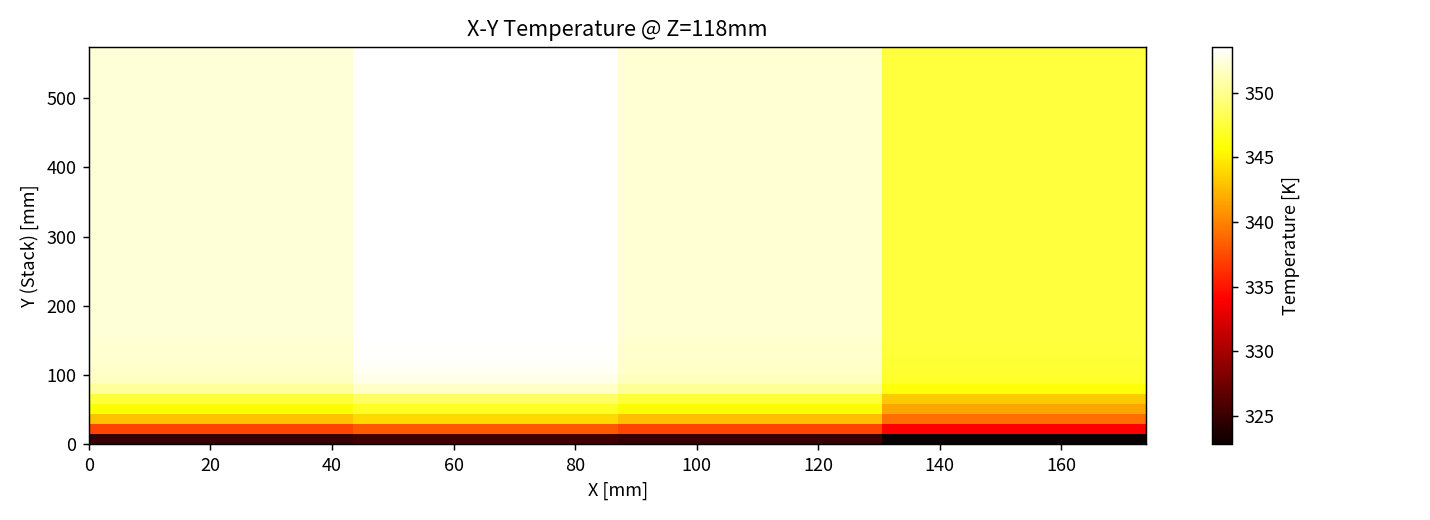
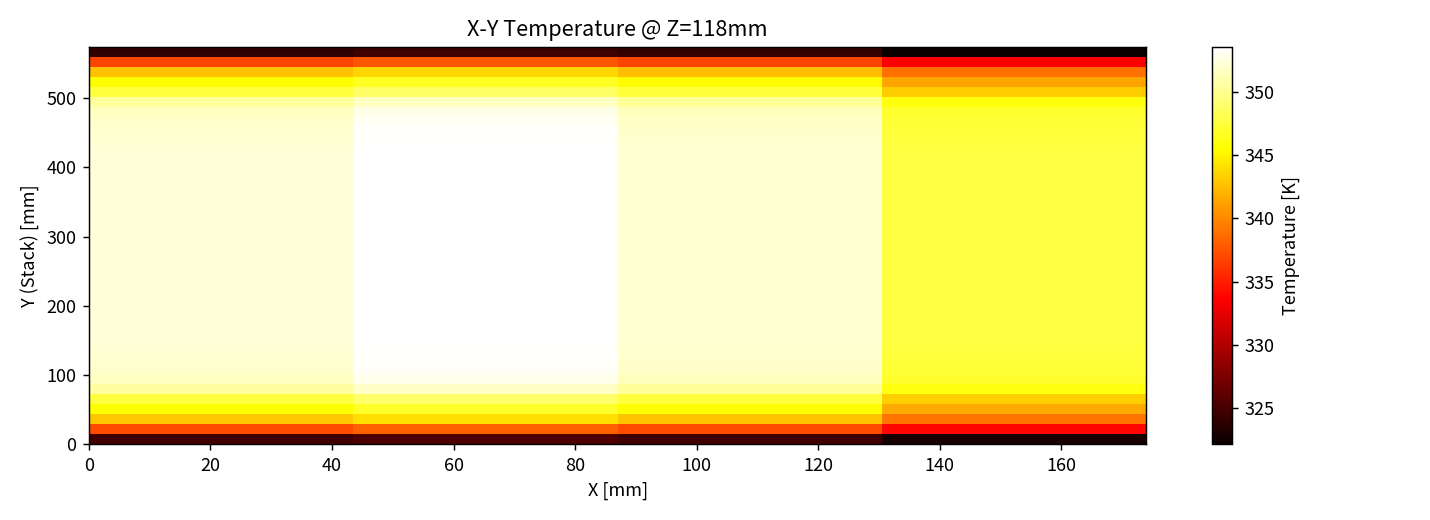
fix: bottom big-face tail is air convection, not adiabatic
- Set h_bottom=50 W/m2K (was 0/adiabatic) in demo_8s_foam_thermal.py

- plot_3d_pack now renders bottom as air-conv layer (light blue) when h_bottom>0

- Update all demo labels, titles and network diagram to 'bottom air convection'

- Regenerate all 8s_foam output figures/CSV with corrected BC

diff --git a/ecm_pack/thermal3d_stack.py b/ecm_pack/thermal3d_stack.py
@@ -533,7 +533,8 @@ class StackThermal3D:
             ):
                 add_face(face, plastic_color, alpha_plastic, "blue", 0.25)
 
-        # ---- adiabatic bottom marker (y = n*Ly, visible slab) ----
+        # ---- bottom boundary marker (y = n*Ly) ----
+        # Air convection -> light-blue translucent slab; adiabatic -> gray hatched slab.
         y_bot = n * Ly
         bot = [
             [0.0, y_bot, 0.0], [Lx, y_bot, 0.0],
@@ -541,24 +542,42 @@ class StackThermal3D:
             [0.0, y_bot, Lz], [Lx, y_bot, Lz],
             [Lx, y_bot + vis_d_adiab, Lz], [0.0, y_bot + vis_d_adiab, Lz],
         ]
-        for face in (
-            [bot[0], bot[1], bot[5], bot[4]],
-            [bot[2], bot[3], bot[7], bot[6]],
-            [bot[0], bot[3], bot[7], bot[4]],
-            [bot[1], bot[2], bot[6], bot[5]],
-            [bot[4], bot[5], bot[6], bot[7]],
-        ):
-            add_face(face, adiabatic_color, alpha_adiabatic, "black", 0.5)
-        # diagonal hatching lines on adiabatic bottom face
-        hatch_lines = []
-        for t in np.linspace(0.05, 0.95, 6):
-            hatch_lines.append([[t * Lx, y_bot + vis_d_adiab, 0.0],
-                                [t * Lx, y_bot + vis_d_adiab, Lz]])
-            hatch_lines.append([[0.0, y_bot + vis_d_adiab, t * Lz],
-                                [Lx, y_bot + vis_d_adiab, t * Lz]])
-        ax.add_collection3d(
-            Line3DCollection(hatch_lines, colors="black", linewidths=0.6,
-                             linestyles="--", alpha=0.6))
+        if self.h_bottom > 0.0:
+            bot_color = "#87ceeb"   # light sky blue = air convection
+            bot_edge = "navy"
+            for face in (
+                [bot[0], bot[1], bot[5], bot[4]],
+                [bot[2], bot[3], bot[7], bot[6]],
+                [bot[0], bot[3], bot[7], bot[4]],
+                [bot[1], bot[2], bot[6], bot[5]],
+                [bot[4], bot[5], bot[6], bot[7]],
+            ):
+                add_face(face, bot_color, 0.40, bot_edge, 0.6)
+            # small convection arrows pointing away from the face
+            for t in np.linspace(0.15, 0.85, 4):
+                ax.plot([t * Lx, t * Lx], [y_bot + vis_d_adiab, y_bot + vis_d_adiab + 0.012],
+                        [t * Lz, t * Lz], color=bot_edge, lw=0.8, alpha=0.8)
+            bot_label = "AIR CONV"
+        else:
+            for face in (
+                [bot[0], bot[1], bot[5], bot[4]],
+                [bot[2], bot[3], bot[7], bot[6]],
+                [bot[0], bot[3], bot[7], bot[4]],
+                [bot[1], bot[2], bot[6], bot[5]],
+                [bot[4], bot[5], bot[6], bot[7]],
+            ):
+                add_face(face, adiabatic_color, alpha_adiabatic, "black", 0.5)
+            # diagonal hatching lines on adiabatic bottom face
+            hatch_lines = []
+            for t in np.linspace(0.05, 0.95, 6):
+                hatch_lines.append([[t * Lx, y_bot + vis_d_adiab, 0.0],
+                                    [t * Lx, y_bot + vis_d_adiab, Lz]])
+                hatch_lines.append([[0.0, y_bot + vis_d_adiab, t * Lz],
+                                    [Lx, y_bot + vis_d_adiab, t * Lz]])
+            ax.add_collection3d(
+                Line3DCollection(hatch_lines, colors="black", linewidths=0.6,
+                                 linestyles="--", alpha=0.6))
+            bot_label = "ADIABATIC"
 
         # ---- 3D leader-line labels (placed in the foreground for the view) ----
         label_kw = dict(color="black", fontsize=9, fontweight="bold",
@@ -580,8 +599,9 @@ class StackThermal3D:
                 "PLASTIC", [Lx + 0.025, -0.030, 0.20],
                 [Lx * 0.5, -vis_d_plastic, Lz * 0.5], plastic_color)
         label_with_line(
-            "ADIABATIC", [0.12, y_bot + 0.038, 0.22],
-            [Lx * 0.5, y_bot + vis_d_adiab, Lz * 0.5], adiabatic_color)
+            bot_label, [0.12, y_bot + 0.038, 0.22],
+            [Lx * 0.5, y_bot + vis_d_adiab, Lz * 0.5],
+            bot_color if self.h_bottom > 0.0 else adiabatic_color)
 
         # ---- axes, limits, view ----
         pad = max(vis_d_foam, vis_d_plastic, 0.015)
@@ -600,13 +620,17 @@ class StackThermal3D:
         cbar.set_ticks(np.linspace(Tmin, Tmax, 5))
 
         # ---- legend ----
+        bot_legend_label = ("Air conv (bottom)" if self.h_bottom > 0.0
+                               else "Adiabatic (bottom)")
+        bot_legend_color = ("#87ceeb" if self.h_bottom > 0.0
+                                else adiabatic_color)
         handles = [
             mpatches.Patch(facecolor=foam_color, edgecolor="darkorange",
                            label="Foam layer"),
             mpatches.Patch(facecolor=plastic_color, edgecolor="blue",
                            label="Plastic sheet (top)"),
-            mpatches.Patch(facecolor=adiabatic_color, edgecolor="black",
-                           label="Adiabatic (bottom)"),
+            mpatches.Patch(facecolor=bot_legend_color, edgecolor="black",
+                           label=bot_legend_label),
             mpatches.Patch(facecolor="white", edgecolor="k",
                            label="Bare air side"),
         ]
@@ -620,7 +644,8 @@ class StackThermal3D:
             f"Foam sides: {foam_str}\n"
             f"Bare-air sides: {air_str}\n"
             f"Top (y=0): plastic({self.k_top:.2f}W/mK,d={self.d_top*1e3:.1f}mm)+air\n"
-            f"Bottom (y=max): adiabatic\n"
+            f"Bottom (y=max): "
+            f"{'air conv h='+format(self.h_bottom,'.1f') if self.h_bottom>0 else 'adiabatic'}\n"
             f"h_conv={self.h_side:.1f} W/m2K  T_amb={self.T_amb:.2f}K"
         )
         ax.text2D(0.97, 0.05, bc_text, transform=ax.transAxes,
@@ -630,9 +655,11 @@ class StackThermal3D:
                             edgecolor="gray", alpha=0.92))
 
         if title is None:
+            bot_word = ("air bottom" if self.h_bottom > 0.0
+                         else "adiabatic bottom")
             title = (
                 f"8S Pack 3D | stack along Y | foam={sorted(self.foam_faces)} | "
-                f"plastic top | adiabatic bottom | T_amb={self.T_amb:.2f}K | "
+                f"plastic top | {bot_word} | T_amb={self.T_amb:.2f}K | "
                 f"dT_pack={Tmax - Tmin:.3f}K"
             )
         ax.set_title(title, fontsize=11)

diff --git a/ecm_pack/examples/demo_8s_foam_thermal.py b/ecm_pack/examples/demo_8s_foam_thermal.py
@@ -6,14 +6,14 @@
 #   薄侧: +X面、+Z面 = 泡棉(k=0.04,1mm) + 25°C空气强制对流；
 #         -X面、-Z面 = 直接25°C空气强制对流（无泡棉隔层）。
 #   顶部: 塑料片(k=0.2,d=0.2mm) + 25°C强制对流。
-#   底部: 绝热（无换热）。
+#   底部(大面尾部): 25°C空气强制对流(非绝热)。
 #   无冷板。
 #
 # 三维热模型 StackThermal3D(thermal3d_stack.py):
 #   foam_faces=["x0","z0"]  — +X/+Z贴泡棉, -X/-Z直接空气
 #   k_top=0.2, d_top=2e-4   — 顶部塑料薄层串联对流
 #   h_top=h_side=50         — 25°C强制对流, T_amb=298.15K
-#   h_bottom=0              — 底部绝热
+#   h_bottom=50              — 底部大面=空气强制对流(非绝热)
 #
 # 电气: 8S 串联, 总负载 314A 恒流放电（1C, 2h）。
 import sys, os
@@ -67,11 +67,12 @@ def main():
     G_bare_side = A_bare * h_env             # 直接空气面无泡棉
     Rpp_plastic = d_plastic / k_plastic      # 塑料片单位面积热阻 ~ 0.0010
     G_top = (Lx * Lz) / (Rpp_plastic + Rpp_conv)
+    G_bottom = Lx * Lz * h_env             # 底部大面=空气对流(非绝热)
 
     print(f"薄侧(+X,+Z): 1mm EVA k={k_foam} 面积={A_foam*1e4:.0f}cm^2 -> G={G_foam_side:.2f} W/K")
     print(f"薄侧(-X,-Z): 直接空气 h={h_env} 面积={A_bare*1e4:.0f}cm^2 -> G={G_bare_side:.2f} W/K")
     print(f"顶部塑料: k={k_plastic} d={d_plastic*1e3:.1f}mm -> G_top={G_top:.2f} W/K")
-    print(f"底部: 绝热 G=0")
+    print(f"底部: 空气对流 h={h_env}  (非绝热)  G={G_bottom:.2f}")
 
     # ---- 8 颗 314Ah 电芯 ----
     cells = [ep.ECMCell(ep.cell_314ah_spec(soc_init=1.0, T_init=298.15))
@@ -99,7 +100,7 @@ def main():
         foam_faces=["x0", "z0"],         # +X/+Z贴泡棉, -X/-Z直接空气
         k_top=k_plastic, d_top=d_plastic,  # 顶部塑料薄层
         h_top=h_env, T_top=T_amb,         # 顶部 25°C强制对流（无冷板）
-        h_bottom=0.0, T_bottom=T_amb,    # 底部绝热
+        h_bottom=h_env, T_bottom=T_amb,    # 底部大面=25°C空气强制对流(非绝热)
         h_side=h_env, T_amb=T_amb,        # 薄侧 25°C强制对流
         T_init=T_amb,
     )
@@ -123,13 +124,13 @@ def main():
     thermal.T = T_end.copy()
     print("\n" + "=" * 65)
     print(f" 8S 大面背靠背 1×8 贴合(无泡棉) / 薄侧不对称(+X,+Z泡棉/-X,-Z直接空气)")
-    print(f" 25°C强制对流(h=50) 顶部塑料片 底部绝热 1C=314A / 2h")
+    print(f" 25°C强制对流(h=50) 顶部塑料片 底部空气对流 1C=314A / 2h")
     print("=" * 65)
     for idx in range(n_cells):
         if idx == 0:
             ylab = "0(顶)"
         elif idx == n_cells - 1:
-            ylab = "max(底绝热)"
+            ylab = "max(底空气)"
         else:
             ylab = str(idx)
         print(f"  bat{idx+1} (y={ylab})  T_final={T_end[idx]:.2f}K  "
@@ -139,7 +140,7 @@ def main():
     print(f"  整包ΔT_max: {dT_pack:.4f}K  "
           f"最热(bat{int(np.argmax(T_end))+1}@{T_end.max():.2f}K)  "
           f"最凉(bat{int(np.argmin(T_end))+1}@{T_end.min():.2f}K)")
-    print(f"  bat8-bat1={T_end[-1]-T_end[0]:+.3f}K（应为正：底部绝热）")
+    print(f"  bat8-bat1={T_end[-1]-T_end[0]:+.3f}K（顶部塑料片热阻高->bat1偏凉）")
 
     # ---- 图1: 整包温度 + 端电压 ----
     fig1, (ax1, ax2) = plt.subplots(2, 1, figsize=(11, 6))
@@ -147,7 +148,7 @@ def main():
     for idx in range(n_cells):
         ax1.plot(time_arr/60, T_cells[:, idx], color=colors[idx], lw=1.2, label=f"bat{idx+1}")
     ax1.set(ylabel="温度 [K]",
-            title=f"8S 大面背靠背贴 温度演变（薄侧不对称+顶塑料+底部绝热） dT={dT_pack:.3f}K")
+            title=f"8S 大面背靠背贴 温度演变（薄侧不对称+顶塑料+底空气对流） dT={dT_pack:.3f}K")
     ax1.legend(ncol=4, fontsize=7, loc="upper left")
     ax1.grid(alpha=0.3)
     ax2.plot(time_arr/60, Vt, color="#1f77b4", lw=1.6)
@@ -201,11 +202,11 @@ def main():
     # 顶部塑料片（左端外 = bat1 顶面）
     ax4.add_patch(plt.Rectangle((x0-0.30, 0.5), 0.2, 1.0, fc="lightgreen", ec="green", lw=1.2))
     ax4.text(x0-0.20, 1.85, "顶塑料片\nk=0.2\n+空气", ha="center", fontsize=7, color="green")
-    # 底部绝热（右端外 = bat8 底面）
-    ax4.add_patch(plt.Rectangle((x0+n_cells*cw-0.10, 0.5), 0.1, 1.0, fc="white", ec="gray", lw=1, ls="--"))
-    ax4.text(x0+n_cells*cw, 1.85, "绝热", ha="center", fontsize=8, color="gray")
+    # 底部空气对流（右端外 = bat8 底面，非绝热）
+    ax4.add_patch(plt.Rectangle((x0+n_cells*cw-0.10, 0.5), 0.1, 1.0, fc="lightblue", ec="navy", lw=1.2))
+    ax4.text(x0+n_cells*cw, 1.85, "底部空气\n对流", ha="center", fontsize=8, color="navy")
     ax4.set(xlim=(x0-0.5, x0+n_cells*cw+0.5), ylim=(0.1, 2.1), xticks=[], yticks=[])
-    ax4.set_title("1×8 大面背靠背直接贴合(无泡棉)+薄侧不对称+顶塑料片+底绝热", fontsize=11)
+    ax4.set_title("1×8 大面背靠背直接贴合(无泡棉)+薄侧不对称+顶塑料片+底空气对流", fontsize=11)
     fig3.tight_layout()
     png3 = os.path.join(out_dir, "ecm_pack_8s_foam_network.png")
     fig3.savefig(png3, dpi=130)
@@ -230,7 +231,7 @@ def main():
     plt.close(fig5)
     print(f"  三维切片: {png5}")
 
-    # ---- 图6: 真 3D 包体渲染（8 个体块 + 泡棉/空气 + 顶塑料 + 底绝热）----
+    # ---- 图6: 真 3D 包体渲染（8 个体块 + 泡棉/空气 + 顶塑料 + 底空气对流）----
     png6 = os.path.join(out_dir, "ecm_pack_8s_3dpack.png")
     fig6, _ = thermal.plot_3d_pack(save_path=png6, dpi=130)
     plt.close(fig6)
